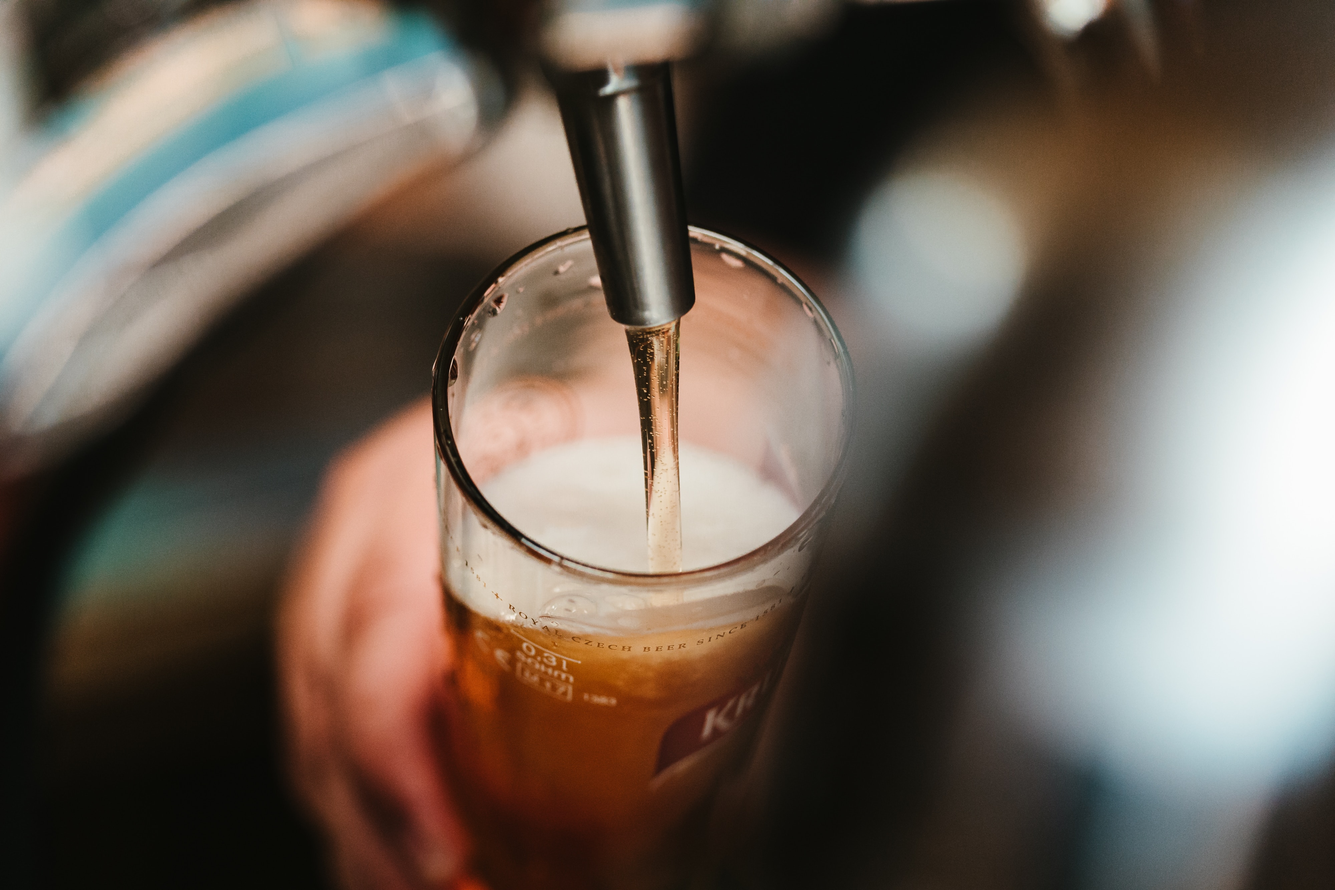
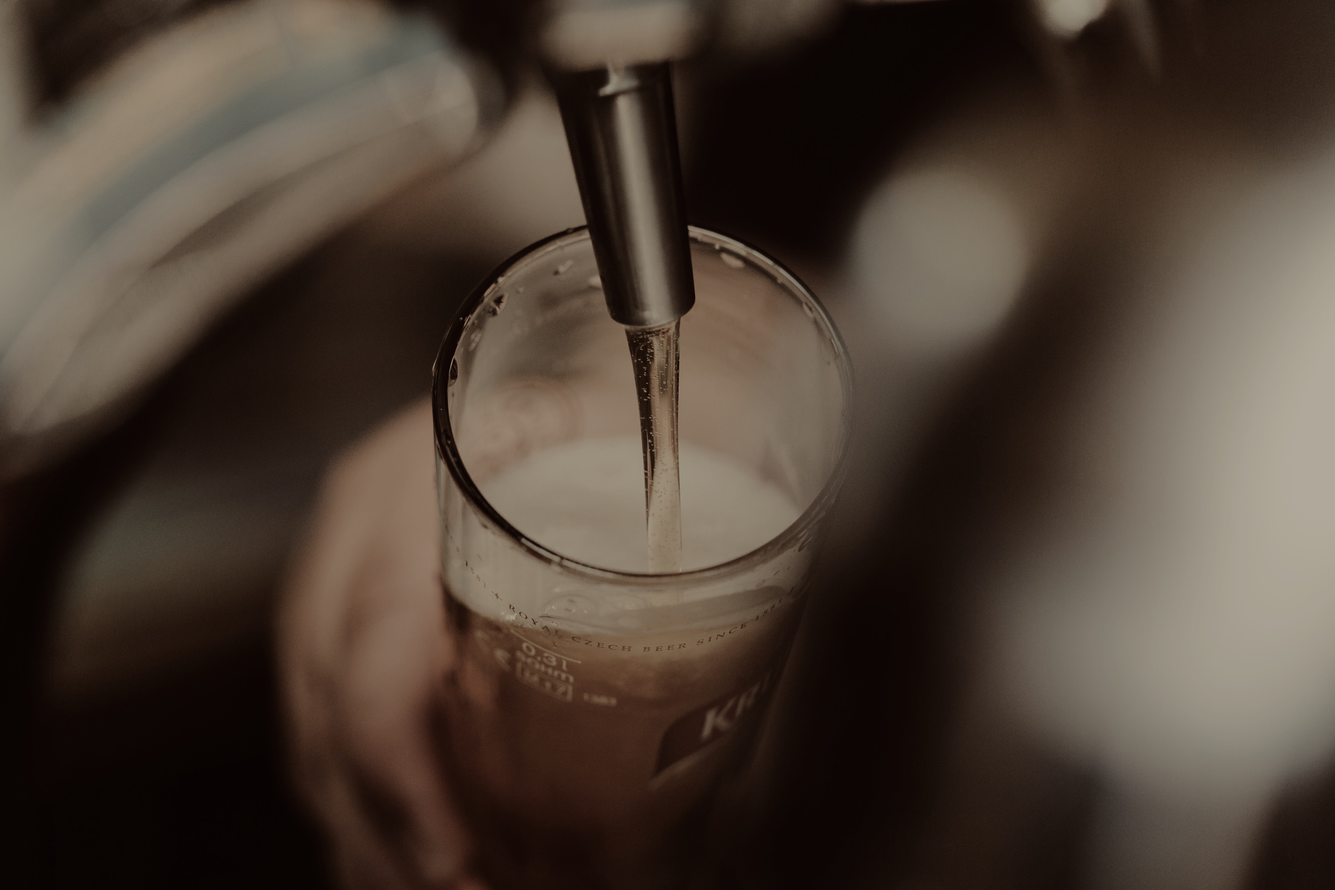
Change background picture, centered iframe

diff --git a/main.css b/main.css
@@ -2,7 +2,7 @@ body {
     font-family: 'Lora', serif;
     color: #d7bd8d;
     text-align: center;
-    background-image: url("img/Brew2.jpg");
+    background-image: url("img/Brew1.jpg");
 	background-position: center top;
     background-size: cover;
 
@@ -29,4 +29,5 @@ h3 {
 .map {
     padding-top: 100px;
     display: flex;
+    margin: auto;
 }

diff --git a/index.html b/index.html
@@ -7,6 +7,12 @@
         <title>
         Brew Drinkery
         </title>
+        <style>
+            iframe {
+             margin-left: auto;   /* Automatic margin from left */
+             margin-right: auto; /* Automatic margin from right */
+            } 
+          </style>
     </head>
 
     <body>
